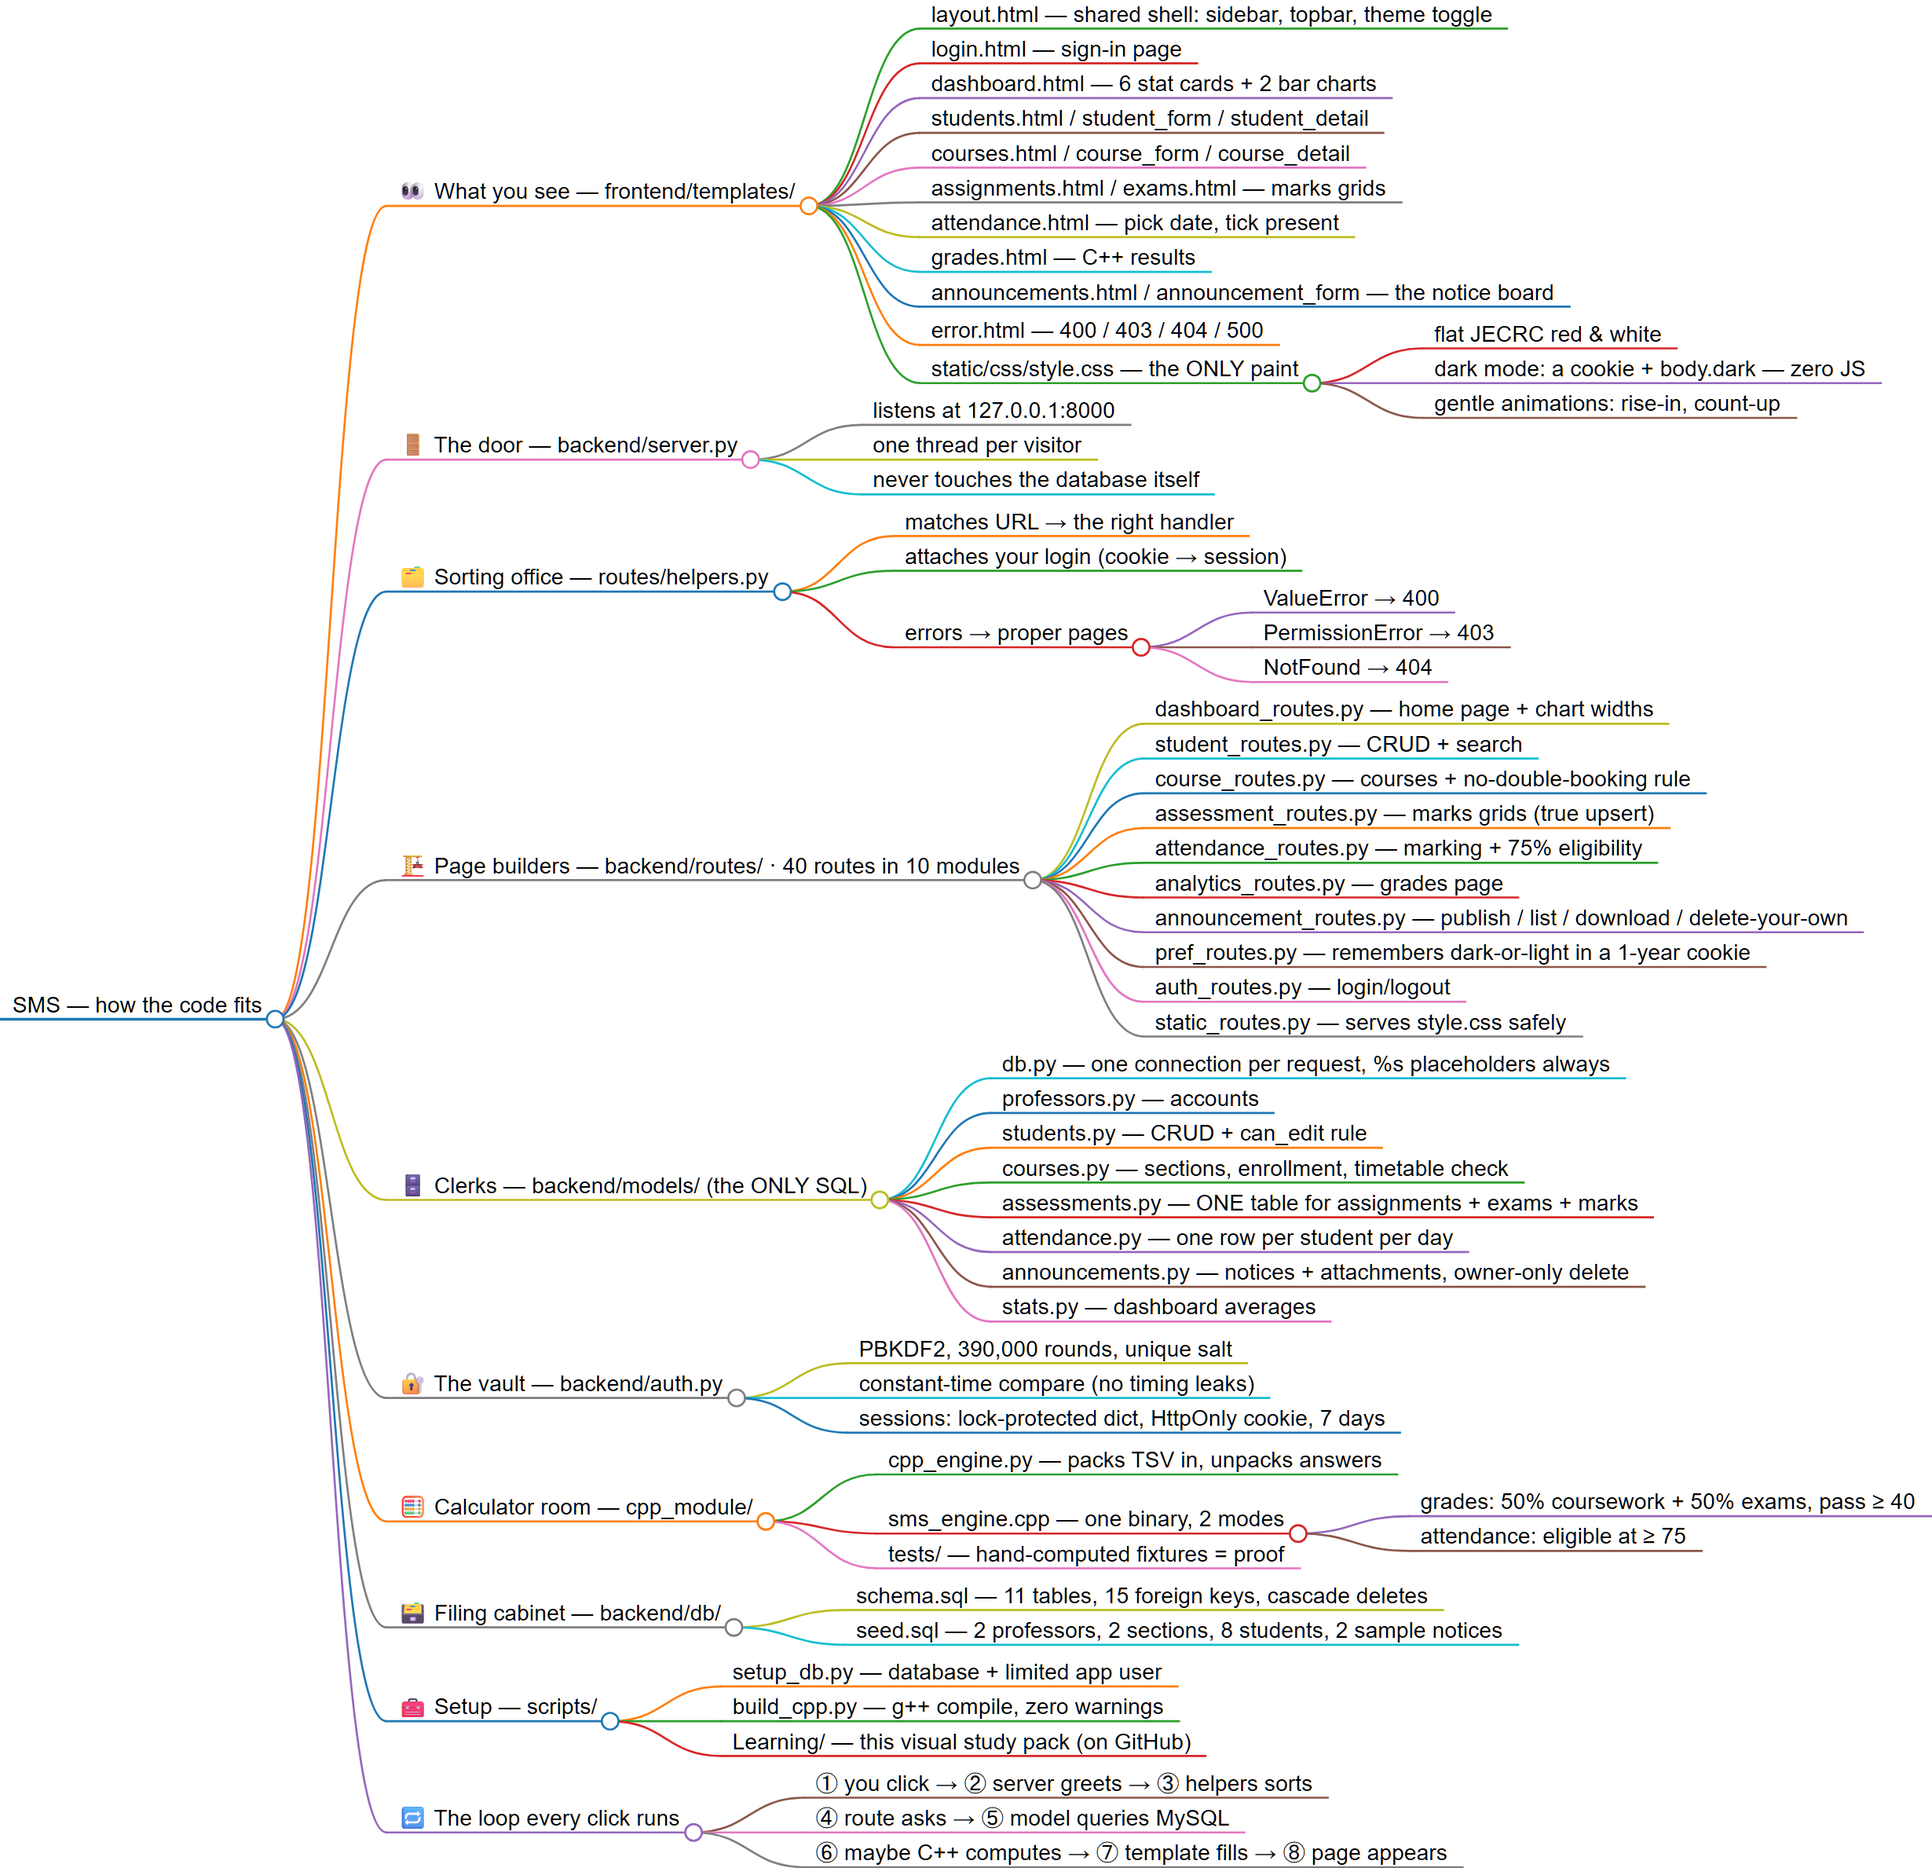
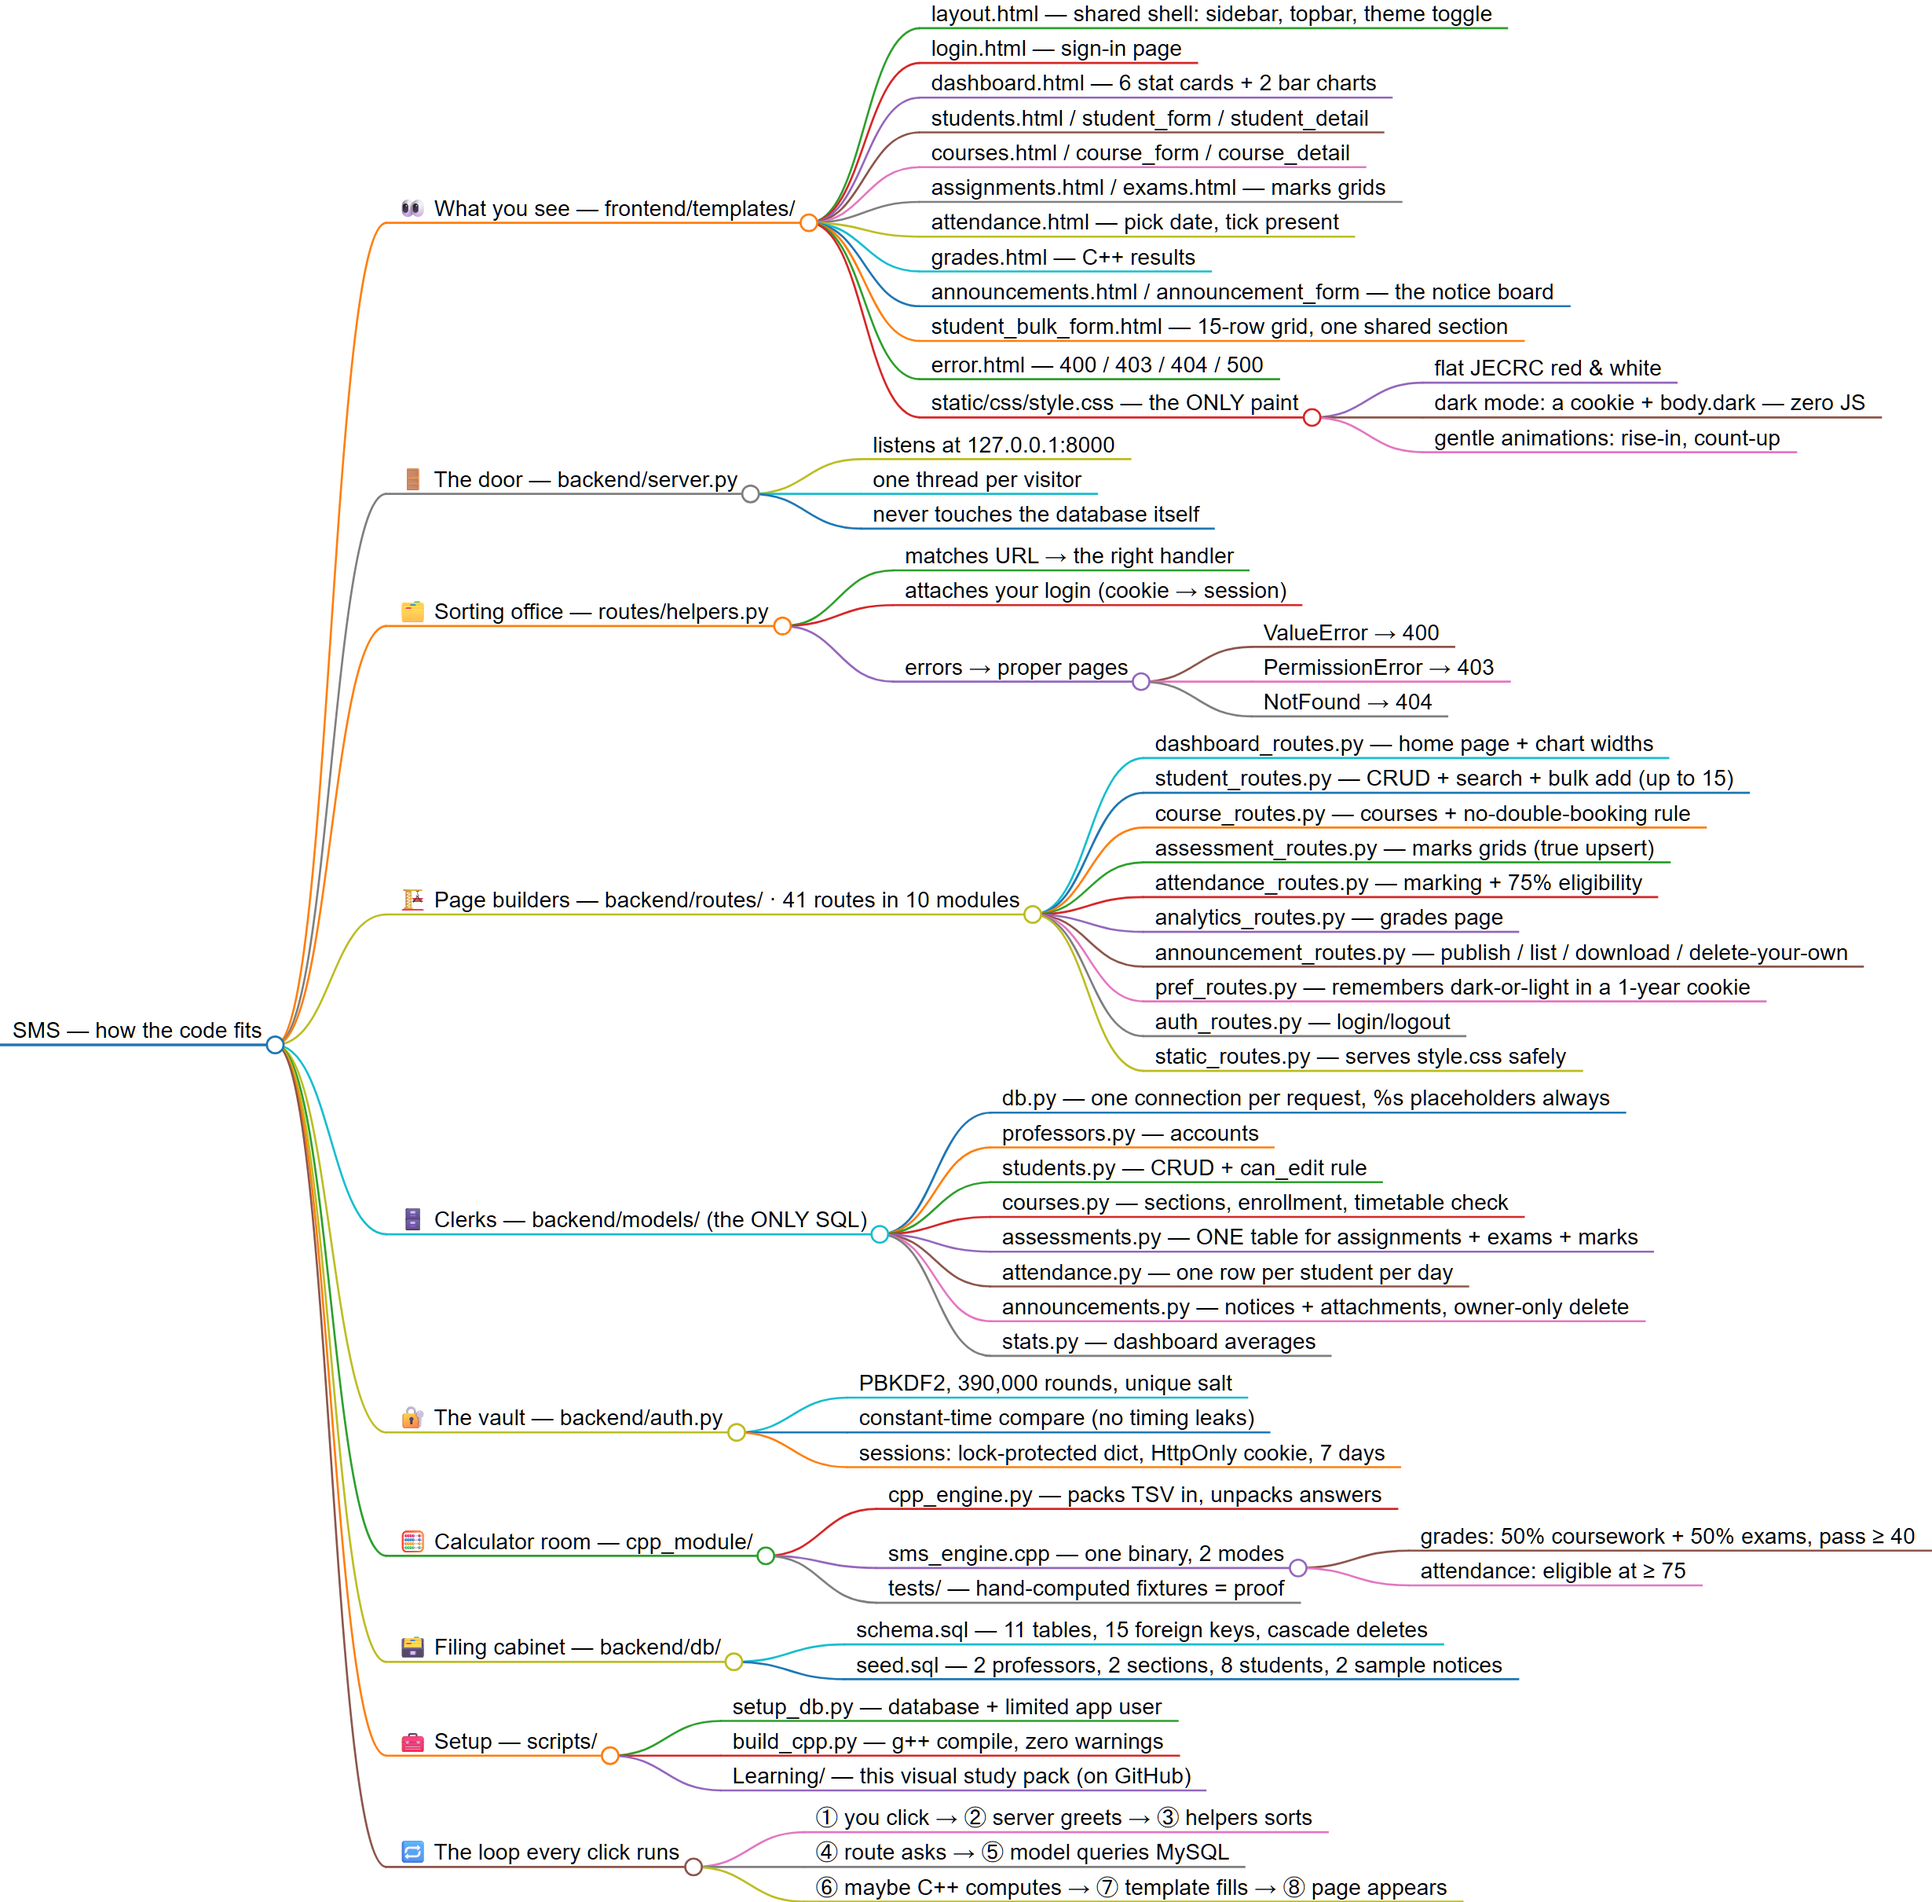
feat: bulk student add — up to 15 rows in one atomic save
- GET/POST /students/bulk: a numbered 15-row grid (name/roll per row,
  optional DOB/contact) with one shared section and enrollment date.
- Rows reuse the single-form validator (_validated_student), so dates
  and blanks follow the exact same contract as the one-student flow.
- Friendly pre-checks with row numbers: half-filled rows, duplicate
  rolls within the form, rolls already in the section, missing date.
- students.create_bulk() inserts all rows in ONE transaction — a bad
  row rolls back the whole batch (proven: row count unchanged, 11->11).
- 11-test battery passed: happy path, every 400 case, auth redirect,
  crafted 16-row POST ignored beyond the cap, rollback verified.
- Docs + Learning pack updated: 41 routes, 17 templates, 3,756 Py loc;
  flowchart / mindmap / cheat sheet / code map re-rendered.

🤖 Generated with Codebuff

Changed region(s): [[0.1545, 0.0, 1.0, 1.0], [0.0, 0.529, 0.1545, 0.5601]]

diff --git a/frontend/templates/student_bulk_form.html b/frontend/templates/student_bulk_form.html
@@ -1,0 +1,32 @@
+<!-- Purpose: bulk add — one shared section + enrollment date, then a
+     numbered 15-row grid (name/roll per row; DOB and contact optional).
+     Entirely blank rows are simply unused slots; the server re-validates
+     every row and rejects the whole batch on any error. -->
+<section class="card form-card" style="--i:0">
+  <h2>{{form_title}}</h2>
+  <form method="post" action="/students/bulk">
+    <div class="bulk-shared">
+      <label class="field">
+        <span>Section (applies to every row)</span>
+        <select name="section_id" required>{{section_options}}</select>
+      </label>
+      <label class="field">
+        <span>Enrollment date (applies to every row)</span>
+        <input type="date" name="bulk_enrollment_date" required>
+      </label>
+    </div>
+
+    <table class="data-table bulk-grid">
+      <thead>
+        <tr><th>#</th><th>Full name</th><th>Roll number</th><th>Date of birth</th><th>Contact</th></tr>
+      </thead>
+      <tbody>{{rows_html}}</tbody>
+    </table>
+    <small class="hint">Fill up to 15 rows — leave a row fully blank to skip it. Roll numbers must be unique within the section; the whole batch is saved together or not at all.</small>
+
+    <div class="form-actions">
+      <button type="submit" class="btn">Save all</button>
+      <a class="btn btn-ghost" href="{{cancel_link}}">Cancel</a>
+    </div>
+  </form>
+</section>

diff --git a/frontend/static/css/style.css b/frontend/static/css/style.css
@@ -426,6 +426,15 @@ input:focus, select:focus, textarea:focus {
 }
 .form-card { max-width: 580px; }
 .form-actions { display: flex; gap: .6rem; margin-top: .9rem; flex-wrap: wrap; }
+
+/* Bulk add: shared fields row + the numbered 15-row grid. Reuses
+   .data-table for the flat look; inputs stay compact like .marks-input. */
+.head-actions { display: flex; gap: .6rem; flex-wrap: wrap; }
+.bulk-shared { display: flex; gap: 1rem; flex-wrap: wrap; margin-bottom: .4rem; }
+.bulk-shared .field { flex: 1 1 220px; }
+.bulk-grid td { padding: .3rem .5rem; }
+.bulk-grid .row-num { width: 2.2rem; text-align: right; color: var(--text-soft); font-size: .85rem; }
+.bulk-grid input[type="text"], .bulk-grid input[type="date"] { width: 100%; min-width: 7rem; }
 .row-form { display: flex; gap: .8rem; flex-wrap: wrap; align-items: flex-end; }
 .row-form .field { margin-bottom: 0; min-width: 140px; }
 .row-form .field-wide { flex: 1 1 220px; }

diff --git a/Learning/05_CODE_MINDMAP_interactive.html b/Learning/05_CODE_MINDMAP_interactive.html
@@ -38,6 +38,7 @@
 ### attendance.html — pick date, tick present
 ### grades.html — C++ results
 ### announcements.html / announcement_form — the notice board
+### student_bulk_form.html — 15-row grid, one shared section
 ### error.html — 400 / 403 / 404 / 500
 ### static/css/style.css — the ONLY paint
 #### flat JECRC red & white
@@ -57,9 +58,9 @@
 #### PermissionError → 403
 #### NotFound → 404
 
-## 🏗 Page builders — backend/routes/ · 40 routes in 10 modules
+## 🏗 Page builders — backend/routes/ · 41 routes in 10 modules
 ### dashboard_routes.py — home page + chart widths
-### student_routes.py — CRUD + search
+### student_routes.py — CRUD + search + bulk add (up to 15)
 ### course_routes.py — courses + no-double-booking rule
 ### assessment_routes.py — marks grids (true upsert)
 ### attendance_routes.py — marking + 75% eligibility

diff --git a/frontend/templates/students.html b/frontend/templates/students.html
@@ -8,7 +8,10 @@
     <select name="section_id">{{section_options}}</select>
     <button type="submit" class="btn">Filter</button>
   </form>
-  <a class="btn" href="/students/new">+ Add student</a>
+  <div class="head-actions">
+    <a class="btn" href="/students/new">+ Add student</a>
+    <a class="btn btn-ghost" href="/students/bulk">+ Bulk add (15)</a>
+  </div>
 </div>
 
 <section class="card" style="--i:1">

diff --git a/backend/routes/student_routes.py b/backend/routes/student_routes.py
@@ -1,4 +1,4 @@
-"""Student list, search, add, edit, delete.
+"""Student list, search, add, edit, delete, and bulk add.
 
 Permission model (confirmed): all professors can view every student;
 editing/deleting requires the student to be enrolled in one of the
@@ -10,10 +10,15 @@ The create/edit pair shares one validator (_validated_student) and one
 uniqueness guard (roll_exists) — the only difference between the two
 flows is the exclusion id. That's the DRY shape worth pointing at.
 """
+from types import SimpleNamespace
+
 from backend.models import courses, students
 from backend.routes import template
 from backend.routes.helpers import Response, login_required, route
 from backend.routes.validation import parse_date, parse_int, require
+
+# Hard cap on one bulk submission (the brief: "up to 15").
+_BULK_MAX = 15
 
 
 @route("GET", "/students")
@@ -68,6 +73,93 @@ def student_create(request):
     if students.roll_exists(data["section_id"], data["roll_number"]):
         raise ValueError(f"Roll number '{data['roll_number']}' already exists in this section.")
     students.create(**data)
+    return Response.redirect("/students")
+
+
+@route("GET", "/students/bulk")
+@login_required
+def student_bulk_form(request):
+    """GET /students/bulk — 15-row grid for adding a section intake at once."""
+    body = template.render(
+        "student_bulk_form.html",
+        form_title="Add Students in Bulk",
+        section_options=_section_choices("") ,
+        rows_html=_bulk_rows_html(),
+        cancel_link="/students",
+    )
+    return Response.html(template.page(request, "Bulk Add Students", body, active="students"))
+
+
+@route("POST", "/students/bulk")
+@login_required
+def student_bulk_create(request):
+    """POST /students/bulk — validate every row, then insert all-or-nothing.
+
+    Two gates before the DB sees anything:
+      1. per-row validation via the SAME _validated_student used by the
+         single form (one rule, two surfaces), and
+      2. a duplicate pre-check inside the chosen section, so the professor
+         gets 'Row 4: roll 07 is already taken' instead of a raw DB error.
+    The insert itself is a single transaction (students.create_bulk), so a
+    failure can never leave a half-filled section.
+    """
+    section_id = parse_int(request.form.get("section_id"), "section", minimum=1)
+
+    # The shared date applies to every row — validate it once, up front,
+    # so one clean message replaces fifteen per-row repeats.
+    bulk_date = parse_date(request.form.get("bulk_enrollment_date"), "Enrollment date")
+    if bulk_date is None:
+        raise ValueError("Enrollment date is required — it applies to every row.")
+
+    rows, errors = [], []
+    for i in range(1, _BULK_MAX + 1):
+        name = request.form.get(f"name_{i}", "").strip()
+        roll = request.form.get(f"roll_{i}", "").strip()
+        if not name and not roll:
+            continue  # an entirely blank row is just an unused slot
+        if not name or not roll:
+            errors.append(f"Row {i}: fill in BOTH name and roll number (or leave both blank).")
+            continue
+
+        # Reuse the single-form validator by faking its request shape:
+        # it only reads .form, and the per-row contract (dates parsed,
+        # blanks to None) stays identical to the one-student flow.
+        try:
+            row = _validated_student(SimpleNamespace(form={
+                "name": name,
+                "roll_number": roll,
+                "section_id": str(section_id),
+                "enrollment_date": bulk_date.isoformat(),
+                "date_of_birth": request.form.get(f"dob_{i}", ""),
+                "contact": request.form.get(f"contact_{i}", ""),
+            }))
+        except ValueError as exc:
+            errors.append(f"Row {i}: {exc}")
+            continue
+        rows.append(row)
+
+    if len(rows) > _BULK_MAX:
+        errors.append(f"At most {_BULK_MAX} students per batch.")
+
+    # Duplicate rolls WITHIN this submission + against the section, with
+    # row numbers in the message — before any INSERT runs.
+    seen = {}
+    for idx, row in enumerate(rows):
+        r = row["roll_number"]
+        if r in seen:
+            errors.append(f"Row {idx + 1}: roll number '{r}' is repeated in this form (first used on row {seen[r] + 1}).")
+        else:
+            seen[r] = idx
+            if students.roll_exists(section_id, r):
+                errors.append(f"Row {idx + 1}: roll number '{r}' already exists in this section.")
+
+    if errors:
+        # ValueError listing renders as one friendly 400 page.
+        raise ValueError(" ".join(errors))
+    if not rows:
+        raise ValueError("Nothing to add — fill in at least one row (name and roll number).")
+
+    students.create_bulk(rows)
     return Response.redirect("/students")
 
 
@@ -268,6 +360,22 @@ def _section_choices(selected=""):
             f"<option value=\"{sec['id']}\"{sel}>{template.esc(sec['section_name'])}</option>"
         )
     return "".join(options)
+
+
+def _bulk_rows_html():
+    """The 15 input rows of the bulk grid (numbered for friendly errors)."""
+    out = []
+    for i in range(1, _BULK_MAX + 1):
+        out.append(
+            f"<tr style=\"--i:{i - 1}\">"
+            f"<td class=\"row-num\">{i}</td>"
+            f"<td><input type=\"text\" name=\"name_{i}\" maxlength=\"100\" placeholder=\"Full name\"></td>"
+            f"<td><input type=\"text\" name=\"roll_{i}\" maxlength=\"20\" placeholder=\"Roll no\"></td>"
+            f"<td><input type=\"date\" name=\"dob_{i}\"></td>"
+            f"<td><input type=\"text\" name=\"contact_{i}\" maxlength=\"20\" placeholder=\"Contact\"></td>"
+            "</tr>"
+        )
+    return "".join(out)
 
 
 def _delete_form_html(student_id, name):

diff --git a/backend/models/students.py b/backend/models/students.py
@@ -26,6 +26,42 @@ def create(name, roll_number, section_id, enrollment_date, date_of_birth=None, c
     )
 
 
+def create_bulk(rows):
+    """Insert many students in ONE transaction; return the new ids.
+
+    All-or-nothing (viva answer): the INSERTs share one transaction, so a
+    duplicate roll number in row 9 rolls back rows 1-8 as well — the
+    section is never left half-filled. The pre-check in the route gives a
+    friendly error first; this constraint is the hard guarantee behind it
+    (UNIQUE(section_id, roll_number) in schema.sql), same belt-and-braces
+    pair as the single-student flow.
+
+    The executemany-style loop keeps one connection for all 15 rows
+    instead of 15 connect-per-query cycles — for a multi-row write, one
+    connection IS the transaction.
+    """
+    conn = db.get_connection()
+    ids = []
+    try:
+        with conn.cursor() as cur:
+            for row in rows:
+                cur.execute(
+                    """INSERT INTO students
+                       (name, roll_number, date_of_birth, contact, enrollment_date, section_id)
+                       VALUES (%s, %s, %s, %s, %s, %s)""",
+                    (row["name"], row["roll_number"], row["date_of_birth"],
+                     row["contact"], row["enrollment_date"], row["section_id"]),
+                )
+                ids.append(cur.lastrowid)
+        conn.commit()
+        return ids
+    except Exception:
+        conn.rollback()
+        raise
+    finally:
+        conn.close()
+
+
 def get(student_id):
     """Return one student with section/batch names, or None."""
     return db.fetch_one(_BASE_SELECT + "WHERE s.id = %s", (student_id,))

diff --git a/docs/FLOWCHART.md b/docs/FLOWCHART.md
@@ -122,7 +122,7 @@ flowchart LR
     subgraph storage["storage + presentation"]
         SQL["MySQL 'sms'<br/>9 tables"]
         CSS["style.css"]
-        TMPL["16 templates"]
+        TMPL["17 templates"]
     end
 
     SRV --> HLP
